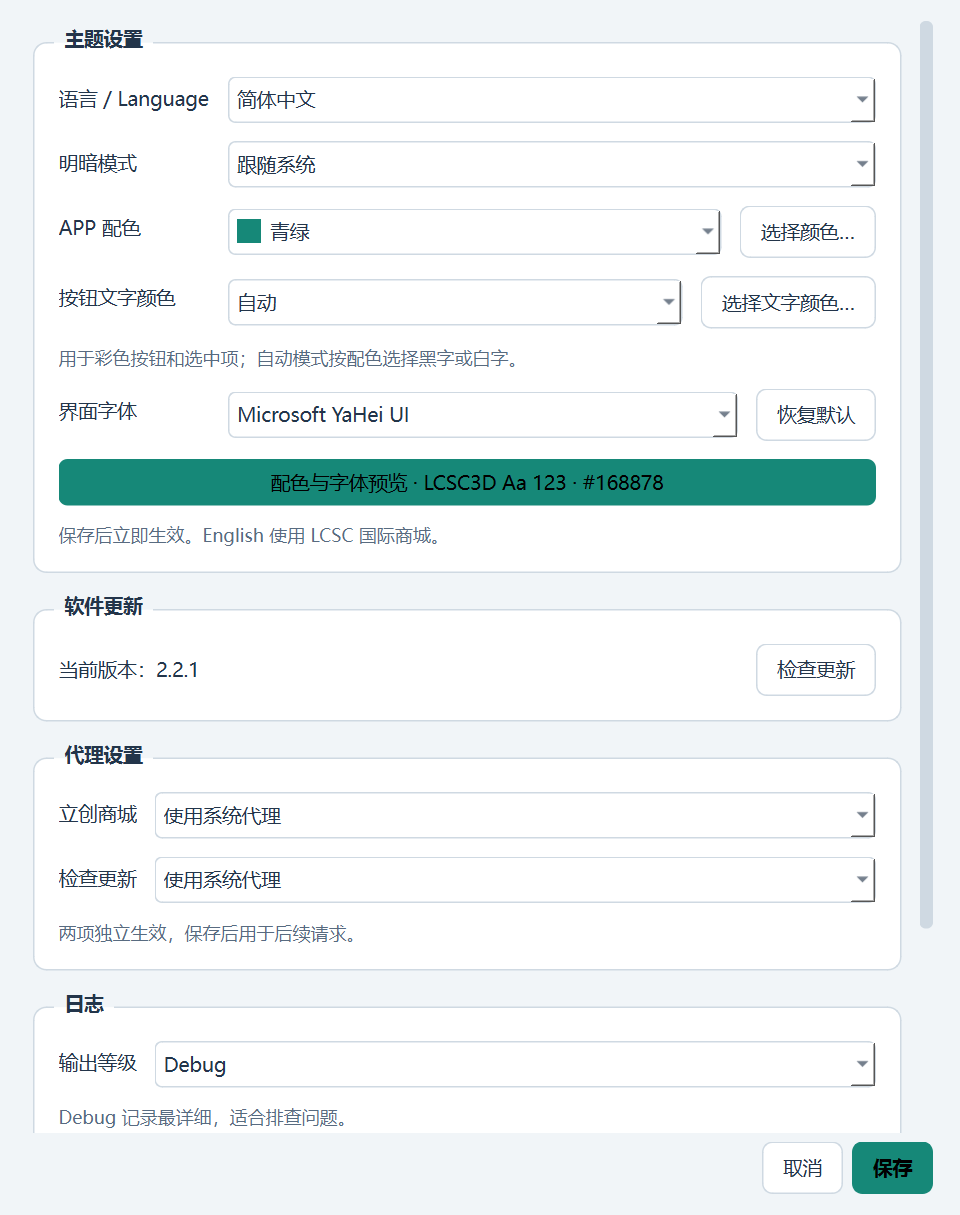
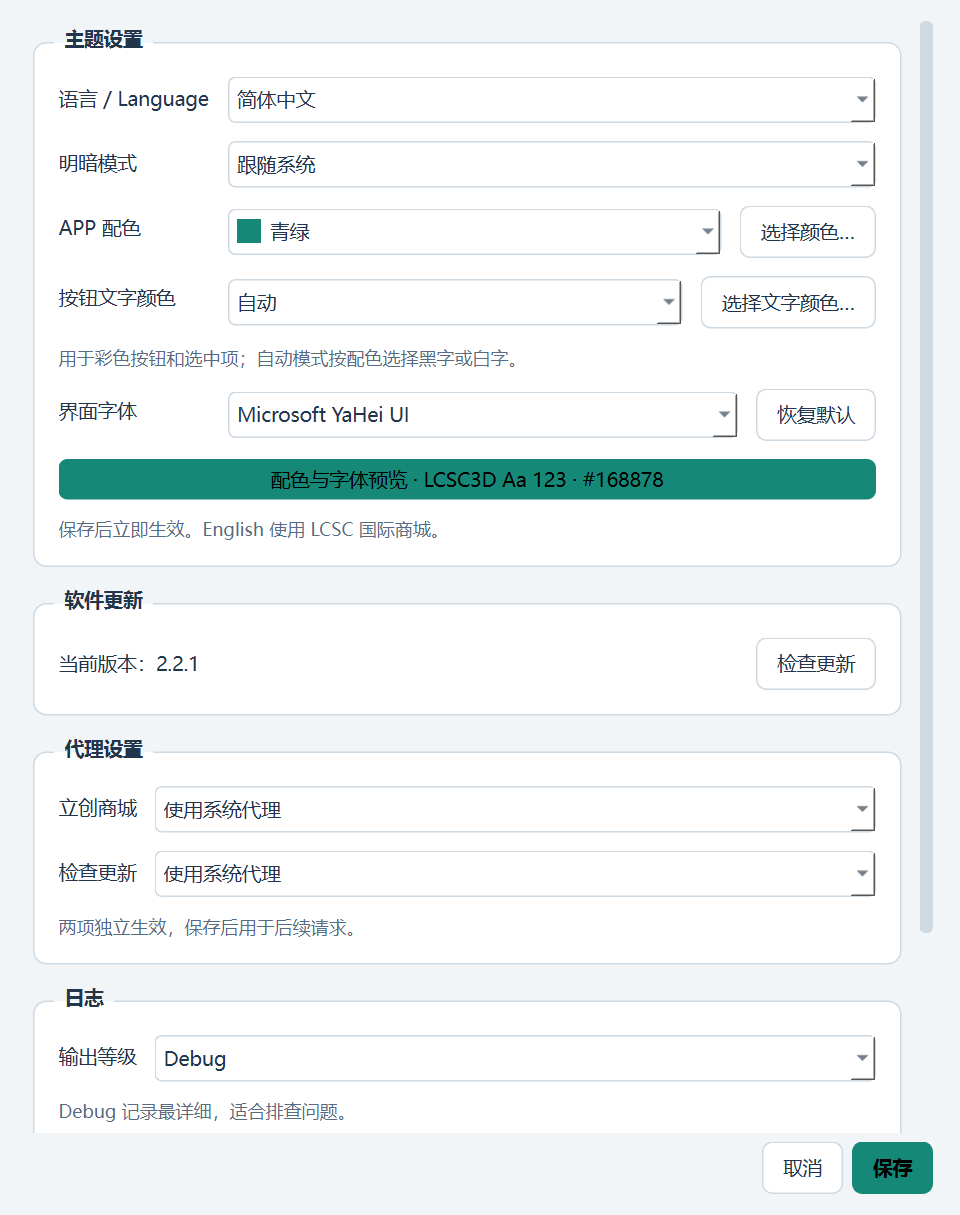
fix: keep font picker popup compact

diff --git a/app/settings_selftest.py b/app/settings_selftest.py
@@ -6,8 +6,8 @@ import time
 import zipfile
 from dataclasses import replace
 
-from PySide6.QtCore import QTimer, QObject, Slot, QUrl
-from PySide6.QtGui import QDesktopServices, QColor, QFont, QPalette
+from PySide6.QtCore import QTimer, QObject, Slot, QUrl, Qt, QEvent
+from PySide6.QtGui import QDesktopServices, QColor, QPalette, QKeyEvent
 from PySide6.QtWidgets import QApplication, QMessageBox, QColorDialog
 
 from app_settings import Preferences, get_preferences, set_preferences
@@ -19,6 +19,8 @@ def start(window, destination):
     destination = Path(destination).resolve()
     destination.mkdir(parents=True, exist_ok=True)
     QApplication.instance().setQuitOnLastWindowClosed(False)
+    # Measure the final popup, independent of Windows' transient animation.
+    QApplication.setEffectEnabled(Qt.UI_AnimateCombo, False)
     original_path = main.SETTINGS_PATH
     main.SETTINGS_PATH = destination / 'LCSC3D-settings.json'
     window.settings_enabled = True
@@ -52,6 +54,47 @@ def start(window, destination):
         main.SETTINGS_PATH = original_path
         window.close()
         QApplication.instance().exit(1 if error else 0)
+
+    def verify_font_popup(dialog, appearance):
+        combo = dialog.font_combo
+        original = combo.currentIndex()
+        combo.showPopup()
+        QApplication.processEvents()
+        view = combo.view()
+        popup = view.window()
+        try:
+            assert popup.isVisible()
+            assert popup.width() <= combo.width() + 2, 'Font popup wider than its field'
+            assert popup.height() <= 250, 'Font popup exceeds compact list height'
+            assert view.verticalScrollBar().isVisible()
+            assert view.verticalScrollBar().maximum() > 0
+            assert view.viewport().rect().contains(view.visualRect(view.currentIndex()).center())
+            assert popup.grab().save(str(destination / ('font-popup-' + appearance + '.png')))
+            report.setdefault('font_popups', []).append({
+                'appearance': appearance, 'width': popup.width(), 'height': popup.height(),
+                'field_width': combo.width(), 'font_count': combo.count(),
+                'device_pixel_ratio': combo.devicePixelRatioF()})
+
+            def key_press(key):
+                for event_type in (QEvent.KeyPress, QEvent.KeyRelease):
+                    QApplication.sendEvent(view, QKeyEvent(event_type, key, Qt.NoModifier))
+                QApplication.processEvents()
+
+            key_press(Qt.Key_End)
+            assert view.currentIndex().row() == combo.count() - 1
+            key_press(Qt.Key_Return)
+            assert not popup.isVisible()
+            assert combo.currentIndex() == combo.count() - 1
+            assert dialog.color_preview.font().family() == combo.currentText()
+            combo.showPopup()
+            key_press(Qt.Key_Home)
+            key_press(Qt.Key_Escape)
+            assert not popup.isVisible() and dialog.isVisible()
+            assert combo.currentIndex() == combo.count() - 1
+        finally:
+            combo.hidePopup()
+            combo.setCurrentIndex(original)
+        report['font_popup_verified'] = True
 
     def verify_package(deadline):
         dialog = window.settings_dialog
@@ -113,6 +156,7 @@ def start(window, destination):
             assert dialog.isVisible()
             assert dialog.store_proxy_combo.currentData() == dialog.update_proxy_combo.currentData() == 'system'
             assert dialog.log_level_combo.currentData() == 'DEBUG'
+            verify_font_popup(dialog, 'light')
             assert dialog.grab().save(str(destination / '设置.png'))
             assert window.grab().save(str(destination / '主窗口.png'))
             dialog.star_button.click()
@@ -137,7 +181,6 @@ def start(window, destination):
             report['support_buttons_verified'] = report['bundled_payment_codes_verified'] = True
             report['support_preserves_unsaved_preferences'] = True
             from app_theme import theme_manager
-            from PySide6.QtCore import Qt
             manager = theme_manager()
             original_path_text = window.path_input.text()
             def choose_custom_color():
@@ -157,8 +200,8 @@ def start(window, destination):
             QTimer.singleShot(50, choose_custom_text_color)
             dialog.text_color_button.click()
             assert dialog.text_color_combo.currentData() == '#fff1d6'
-            dialog.font_combo.setCurrentFont(QFont('Segoe UI'))
-            assert dialog.color_preview.font().family() == dialog.font_combo.currentFont().family()
+            dialog.font_combo.setCurrentText('Segoe UI')
+            assert dialog.color_preview.font().family() == dialog.font_combo.currentText()
             report['custom_text_color_picker_verified'] = True
             dialog.language_combo.setCurrentIndex(dialog.language_combo.findData('en_US'))
             dialog.theme_mode_combo.setCurrentIndex(dialog.theme_mode_combo.findData('dark'))
@@ -172,8 +215,8 @@ def start(window, destination):
             dialog.theme_mode_combo.setCurrentIndex(dialog.theme_mode_combo.findData('dark'))
             dialog.accent_combo.setCurrentIndex(dialog.accent_combo.findData('#7c3aed'))
             dialog.text_color_combo.setCurrentIndex(dialog.text_color_combo.findData('#ffffff'))
-            dialog.font_combo.setCurrentFont(QFont('Segoe UI'))
-            chosen_font = dialog.font_combo.currentFont().family()
+            dialog.font_combo.setCurrentText('Segoe UI')
+            chosen_font = dialog.font_combo.currentText()
             dialog.save_button.click()
             assert manager.dark and manager.tokens['accent'] == '#7c3aed'
             assert manager.tokens['on_accent'] == manager.tokens['on_accent_hover'] == '#ffffff'
@@ -203,6 +246,7 @@ def start(window, destination):
             window.settings_button.click()
             dialog = window.settings_dialog
             QApplication.processEvents()
+            verify_font_popup(dialog, 'dark')
             assert dialog.grab().save(str(destination / 'settings-English-dark.png'))
             assert window.grab().save(str(destination / 'main-English-dark.png'))
             dialog.cancel_button.click()

diff --git a/app/tests/test_settings.py b/app/tests/test_settings.py
@@ -403,8 +403,7 @@ class SettingsWindowTests(PreferencesTestCase):
         dialog.theme_mode_combo.setCurrentIndex(dialog.theme_mode_combo.findData('dark'))
         dialog.accent_combo.setCurrentIndex(dialog.accent_combo.findData('#7c3aed'))
         dialog.text_color_combo.setCurrentIndex(dialog.text_color_combo.findData('#ffffff'))
-        from PySide6.QtGui import QFont
-        dialog.font_combo.setCurrentFont(QFont('Segoe UI'))
+        dialog.font_combo.setCurrentText('Segoe UI')
         with patch('main.write_settings', side_effect=PermissionError()):
             dialog.save_button.click()
         self.assertTrue(dialog.isVisible())
@@ -414,15 +413,15 @@ class SettingsWindowTests(PreferencesTestCase):
         self.assertEqual(self.window.path_input.text(), 'F:/用户选择/模型')
 
     def test_text_color_and_font_save_restore_and_reset_without_affecting_other_preferences(self):
-        from PySide6.QtGui import QFont, QColor
+        from PySide6.QtGui import QColor
         from app_theme import theme_manager, effective_font_family
         from app_settings import DEFAULT_FONT_FAMILY
         self.window.open_settings()
         dialog = self.window.settings_dialog
         with patch('settings_ui.QColorDialog.getColor', return_value=QColor('#fff1d6')):
             dialog.text_color_button.click()
-        dialog.font_combo.setCurrentFont(QFont('Segoe UI'))
-        family = dialog.font_combo.currentFont().family()
+        dialog.font_combo.setCurrentText('Segoe UI')
+        family = dialog.font_combo.currentText()
         self.assertIn('color:#fff1d6;', dialog.color_preview.styleSheet())
         self.assertEqual(dialog.color_preview.font().family(), family)
         self.assertEqual(get_preferences(), Preferences())
@@ -436,7 +435,7 @@ class SettingsWindowTests(PreferencesTestCase):
         self.window.open_settings()
         dialog = self.window.settings_dialog
         self.assertEqual(dialog.text_color_combo.currentData(), '#fff1d6')
-        self.assertEqual(dialog.font_combo.currentFont().family(), family)
+        self.assertEqual(dialog.font_combo.currentText(), family)
         dialog.text_color_combo.setCurrentIndex(dialog.text_color_combo.findData('auto'))
         dialog.reset_font_button.click()
         dialog.save_button.click()
@@ -444,7 +443,7 @@ class SettingsWindowTests(PreferencesTestCase):
         self.assertEqual(get_preferences().font_family, effective_font_family(DEFAULT_FONT_FAMILY))
 
     def test_cancelled_text_picker_and_settings_do_not_change_live_font_or_color(self):
-        from PySide6.QtGui import QFont, QColor
+        from PySide6.QtGui import QColor
         from app_theme import theme_manager
         before = dict(theme_manager().tokens)
         self.window.open_settings()
@@ -453,11 +452,43 @@ class SettingsWindowTests(PreferencesTestCase):
             dialog.text_color_button.click()
         self.assertEqual(dialog.text_color_combo.currentData(), 'auto')
         dialog.text_color_combo.setCurrentIndex(dialog.text_color_combo.findData('#ffffff'))
-        dialog.font_combo.setCurrentFont(QFont('Segoe UI'))
+        dialog.font_combo.setCurrentText('Segoe UI')
         dialog.cancel_button.click()
         self.assertEqual(get_preferences(), Preferences())
         self.assertEqual(theme_manager().tokens, before)
         self.assertFalse(self.settings_path.exists())
+
+    def test_font_popup_is_compact_scrollable_and_escape_preserves_selection(self):
+        from PySide6.QtTest import QTest
+        self.addCleanup(self.app.setStyle, self.app.style().objectName())
+        self.app.setStyle('Fusion')
+        self.window.open_settings()
+        dialog = self.window.settings_dialog
+        combo = dialog.font_combo
+        self.app.processEvents()
+        combo.showPopup()
+        self.app.processEvents()
+        view = combo.view()
+        popup = view.window()
+        self.assertTrue(QTest.qWaitForWindowExposed(popup))
+        self.assertLessEqual(popup.width(), combo.width() + 2)
+        self.assertLessEqual(popup.height(), 250)
+        self.assertTrue(view.verticalScrollBar().isVisible())
+        self.assertGreater(view.verticalScrollBar().maximum(), 0)
+        QTest.keyClick(view, Qt.Key_End)
+        QTest.keyClick(view, Qt.Key_Return)
+        family = combo.itemText(combo.count() - 1)
+        self.assertEqual(combo.currentText(), family)
+        self.assertEqual(dialog.color_preview.font().family(), family)
+        self.assertFalse(popup.isVisible())
+        combo.showPopup()
+        self.assertTrue(QTest.qWaitForWindowExposed(popup))
+        QTest.keyClick(view, Qt.Key_Home)
+        QTest.keyClick(view, Qt.Key_Escape)
+        self.assertFalse(popup.isVisible())
+        self.assertTrue(dialog.isVisible())
+        self.assertEqual(combo.currentText(), family)
+        self.assertEqual(get_preferences(), Preferences())
 
     def test_language_roundtrip_keeps_queue_checks_and_does_not_read_mainland_session_in_english(self):
         from dataclasses import replace

diff --git a/app/settings_ui.py b/app/settings_ui.py
@@ -4,8 +4,9 @@ from pathlib import Path
 import sys
 
 from PySide6.QtCore import Qt, QUrl, QThread
-from PySide6.QtGui import QColor, QDesktopServices, QPixmap, QIcon, QFont
-from PySide6.QtWidgets import (QHBoxLayout, QVBoxLayout, QScrollArea, QWidget, QColorDialog, QFontComboBox)
+from PySide6.QtGui import QColor, QDesktopServices, QPixmap, QIcon, QFont, QFontDatabase
+from PySide6.QtWidgets import (QHBoxLayout, QVBoxLayout, QScrollArea, QWidget, QColorDialog,
+                               QComboBox as NativeComboBox)
 from localized_widgets import (QComboBox, QDialog, QFormLayout, QGroupBox, QLabel, QPushButton, QMessageBox)
 
 from app_settings import (LOG_LEVELS, PROXY_OPTIONS, Preferences, LANGUAGES,
@@ -168,12 +169,20 @@ class SettingsDialog(QDialog):
         theme_form.addRow(text_hint)
 
         font_row = QHBoxLayout()
-        self.font_combo = QFontComboBox()
-        self.font_combo.setEditable(False)
-        self.font_combo.setCurrentFont(QFont(effective_font_family(preferences.font_family)))
+        # Keep the full font list compact; the native font picker widens its
+        # preview popup and Fusion's menu mode ignores maxVisibleItems.
+        self.font_combo = NativeComboBox()
+        self.font_combo.addItems(QFontDatabase.families())
+        self.font_combo.setSizeAdjustPolicy(NativeComboBox.AdjustToMinimumContentsLengthWithIcon)
+        self.font_combo.setMinimumContentsLength(18)
+        self.font_combo.setMaxVisibleItems(8)
+        self.font_combo.setStyleSheet('QComboBox { combobox-popup: 0; } '
+                                     'QComboBox QAbstractItemView::item { min-height: 24px; }')
+        self.font_combo.view().setVerticalScrollBarPolicy(Qt.ScrollBarAsNeeded)
+        self.font_combo.setCurrentText(effective_font_family(preferences.font_family))
         self.reset_font_button = QPushButton(ui_text('恢复默认'))
         self.reset_font_button.setAutoDefault(False)
-        self.reset_font_button.clicked.connect(lambda: self.font_combo.setCurrentFont(QFont(effective_font_family(DEFAULT_FONT_FAMILY))))
+        self.reset_font_button.clicked.connect(lambda: self.font_combo.setCurrentText(effective_font_family(DEFAULT_FONT_FAMILY)))
         font_row.addWidget(self.font_combo, 1)
         font_row.addWidget(self.reset_font_button)
         theme_form.addRow(ui_text('界面字体'), font_row)
@@ -183,7 +192,7 @@ class SettingsDialog(QDialog):
         self.color_preview.setWordWrap(True)
         self.accent_combo.currentIndexChanged.connect(self.update_color_preview)
         self.text_color_combo.currentIndexChanged.connect(self.update_color_preview)
-        self.font_combo.currentFontChanged.connect(self.update_color_preview)
+        self.font_combo.currentTextChanged.connect(self.update_color_preview)
         self.update_color_preview()
         theme_form.addRow(self.color_preview)
         theme_hint = QLabel(ui_text('保存后立即生效。English 使用 LCSC 国际商城。'))
@@ -306,7 +315,7 @@ class SettingsDialog(QDialog):
         text_color = self.text_color_combo.currentData()
         if text_color == 'auto':
             text_color = foreground(value)
-        self.color_preview.setFont(self.font_combo.currentFont())
+        self.color_preview.setFont(QFont(self.font_combo.currentText()))
         self.color_preview.setText(ui_text('配色与字体预览 · ') + 'LCSC3D Aa 123 · ' + value.upper())
         self.color_preview.setStyleSheet(ui_message('background:{0};color:{1};padding:7px;border-radius:6px;', value, text_color))
 
@@ -342,7 +351,7 @@ class SettingsDialog(QDialog):
                                   theme_mode=self.theme_mode_combo.currentData(),
                                   accent_color=self.accent_combo.currentData(),
                                   accent_text_color=self.text_color_combo.currentData(),
-                                  font_family=self.font_combo.currentFont().family())
+                                  font_family=self.font_combo.currentText())
         if self.save(preferences):
             self.accept()
         else:

diff --git a/README.md b/README.md
@@ -62,7 +62,7 @@ LCSC3D 是面向硬件开发、PCB 设计和结构配合的 Windows 便携工具
 - **明暗模式**：跟随系统、浅色、深色。默认跟随系统，并响应运行期间的系统明暗变化。
 - **APP 配色**：青绿、蓝色、紫色、玫红、橙色，以及任意自定义颜色。按钮、选中状态、进度条和重点文字同步更新。
 - **按钮文字颜色**：自动、白色、黑色，或点击 **选择文字颜色…** 自定义。手动颜色用于彩色按钮及选中项，切换配色、浅色或深色后仍保留；选择“自动”恢复黑白对比度判断。
-- **界面字体**：从本机已安装字体中选择，支持预览及恢复默认。保存后主窗口、弹窗和 3D 预览操作提示同步生效；换电脑后找不到所选字体时自动回退。
+- **界面字体**：从本机已安装字体中选择，下拉列表最多显示 8 项，其余滚动查看，选中后在下方预览。支持恢复默认；保存后主窗口、弹窗和 3D 预览操作提示同步生效，换电脑后找不到所选字体时自动回退。
 
 例如，想保留青绿色背景并使用白字，可将 **按钮文字颜色** 设为 **白色** 后保存。
 
@@ -284,7 +284,7 @@ LCSC3D 是面向硬件开发、PCB 设计和结构配合的 Windows 便携工具
 
 部分元件没有关联的 3D 模型，仍可能有可用的符号与封装；某些模型格式也可能不可获取。导出结果以实际官方资源和软件提示为准。预览用于选型和检查，生产设计前仍需根据器件数据手册核对引脚、尺寸和封装。
 
-当前版本通过 **410 项本地回归测试**，涵盖主题与语言切换、国际站数据解析、队列保留、导出和更新；已有专项继续覆盖 **136 组导出模式组合、16 组共享封装组合**及 **27 个官方 AD 对照样本**。本次正式 EXE 验证主题保存、语言切换、自定义配色与文字颜色、界面字体、系统明暗变化、赞助和日志功能；另以实网验证国际商城搜索、分页、分类、美元价格、原图和加入下载列表。先前版本的 EXE 导出、自更新及用户 AD 实测记录保留在 [验证记录](docs/验证记录.md)。
+当前版本通过 **411 项本地回归测试**，涵盖字体列表展开与选择、主题与语言切换、国际站数据解析、队列保留、导出和更新；已有专项继续覆盖 **136 组导出模式组合、16 组共享封装组合**及 **27 个官方 AD 对照样本**。本次正式 EXE 验证主题保存、语言切换、自定义配色与文字颜色、界面字体、系统明暗变化、赞助和日志功能；另以实网验证国际商城搜索、分页、分类、美元价格、原图和加入下载列表。先前版本的 EXE 导出、自更新及用户 AD 实测记录保留在 [验证记录](docs/验证记录.md)。
 
 ## 源码运行与构建
 

diff --git a/app/README.md b/app/README.md
@@ -12,7 +12,7 @@ Windows 10/11 x64 便携软件，用嘉立创商城 C 编号下载官方 STEP/OB
 - **明暗模式 / Appearance**：跟随系统、浅色、深色。默认跟随系统，软件运行期间也会响应系统主题变化；手动指定浅色或深色后保持所选模式。
 - **APP 配色 / Accent color**：青绿、蓝色、紫色、玫红、橙色，或点击 **选择颜色… / Choose color…** 自定义颜色。配色预览在设置中显示；保存后应用于按钮、选中状态、进度条等区域。
 - **按钮文字颜色 / Button text color**：自动、白色、黑色、自定义。点击 **选择文字颜色… / Choose text color…** 可选任意文字颜色；作用于彩色按钮和选中项，包括“开始下载”与选中的“3D 模型”。手动颜色在切换明暗模式和 APP 配色后保留；选择“自动”恢复按背景对比度选黑字或白字。想使用青绿配白字时，选择“青绿”及“白色”后保存。
-- **界面字体 / Interface font**：选择本机已安装的字体，设置内显示配色与字体预览。保存后应用于主窗口、弹窗、菜单、表格及 3D 预览操作提示。**恢复默认 / Reset to default** 选回默认字体，点击保存生效；换电脑后找不到原字体时使用默认可用字体。此设置修改界面字体，不更改导出库或官方符号/封装中的文字。
+- **界面字体 / Interface font**：下拉列表与选择框同宽，最多显示 8 项，其余字体可滚动查看，也支持方向键选择和 Esc 收起。选中后在下方显示配色与字体预览。保存后应用于主窗口、弹窗、菜单、表格及 3D 预览操作提示。**恢复默认 / Reset to default** 选回默认字体，点击保存生效；换电脑后找不到原字体时使用默认可用字体。此设置修改界面字体，不更改导出库或官方符号/封装中的文字。
 
 主题、文字颜色、字体与语言的切换保留下载列表、勾选状态、导出路径及当前模型。选择过程中只更新设置内的预览，保存后应用并记忆；取消设置或保存失败时保持原设置。设置内容较多时可滚动，底部“保存 / 取消”始终可见。符号与封装的官方 SVG 颜色保持不变。
 

diff --git a/docs/验证记录.md b/docs/验证记录.md
@@ -2,9 +2,10 @@
 
 验证日期：2026-10-10。Windows x64、Python 3.12.10、PySide6 6.11.1。
 
-- 410 项本地回归全部通过，覆盖设置兼容与非法值回退、主题保存失败与取消、系统主题跟随、手动明暗模式、配色文字对比度、中英文切换、原有商城/导出/更新功能。
+- 411 项本地回归全部通过，覆盖字体弹出列表、设置兼容与非法值回退、主题保存失败与取消、系统主题跟随、手动明暗模式、配色文字对比度、中英文切换、原有商城/导出/更新功能；最终滚动条调整后，32 项设置专项再次通过。
 - 手动按钮文字颜色验证：白色、黑色与自定义颜色可覆盖自动黑白判断；真实按钮渲染、选中项及悬停颜色经过验证，切换配色和明暗模式后保留，切回自动恢复原算法。
 - 界面字体验证：从已安装字体选择，保存/重新载入后恢复；仅改字体时已有控件与 3D 预览操作提示即时更新，缺失字体回退到默认可用字体。长商品介绍与参数表在字体变化后重算高度，避免截断。
+- 字体下拉列表修复后，正式 EXE 在 100%、150%、200% 缩放下分别验证浅色与深色：293 项字体完整保留，展开高度均为 194 个逻辑像素、最多 8 项、宽度与选择框一致，滚动条可见。跳至末项后选择、预览、Esc 收起及保留原选项均通过；截图见 font-popup-light.png / font-popup-dark.png。
 - 正式 EXE 实际打开配色、按钮文字颜色选择器，验证预览、取消及保存；青绿配白字、界面字体选择截图见 settings-text-font.png 与 main-text-font.png。
 - 源码与正式 EXE 均验证主题设置保存与恢复、English / 简体中文往返切换、深色 / 浅色 / 跟随系统、预设颜色及真实颜色选择弹窗。Qt 标准弹窗中文翻译资源随 EXE 打包并成功加载。
 - 保存失败与取消保持原语言、配色和输入内容；切换语言保留下载列表、勾选状态、导出路径。English 下首次导入、重复导入与无效输入的提示结果均经过回归，成功状态不再依赖界面文本。

diff --git a/docs/releases/v2.2.1.md b/docs/releases/v2.2.1.md
@@ -8,6 +8,7 @@
 - 青绿、蓝色、紫色、玫红、橙色及自定义配色。按钮、选中状态、进度条与强调色同步更新。
 - 新增 **按钮文字颜色**，支持自动、白色、黑色及“选择文字颜色…”自定义；手动颜色在切换配色与明暗模式后保留，可直接设置青绿配白字。
 - 新增 **界面字体**，可从已安装字体中选择并预览，支持恢复默认及字体缺失时回退。保存后已有窗口和 3D 预览操作提示即时更新。
+- 修复字体下拉列表展开时占满屏幕的问题：宽度跟随选择框，最多显示 8 项；支持滚动、键盘选择与 Esc 收起，字体效果在下方预览。
 - 设置内容支持滚动，保存与取消按钮固定在底部。保存失败或取消时，当前语言与主题保持不变。
 
 ![English 深色主题](../images/2.2.1/main-English-dark.png)
@@ -15,6 +16,8 @@
 ![English 浅色设置](../images/2.2.1/settings-English-light.png)
 
 ![青绿配白字与字体设置](../images/2.2.1/settings-text-font.png)
+
+![紧凑的字体下拉列表](../images/2.2.1/font-popup-light.png)
 
 ## 赞助与支持
 
